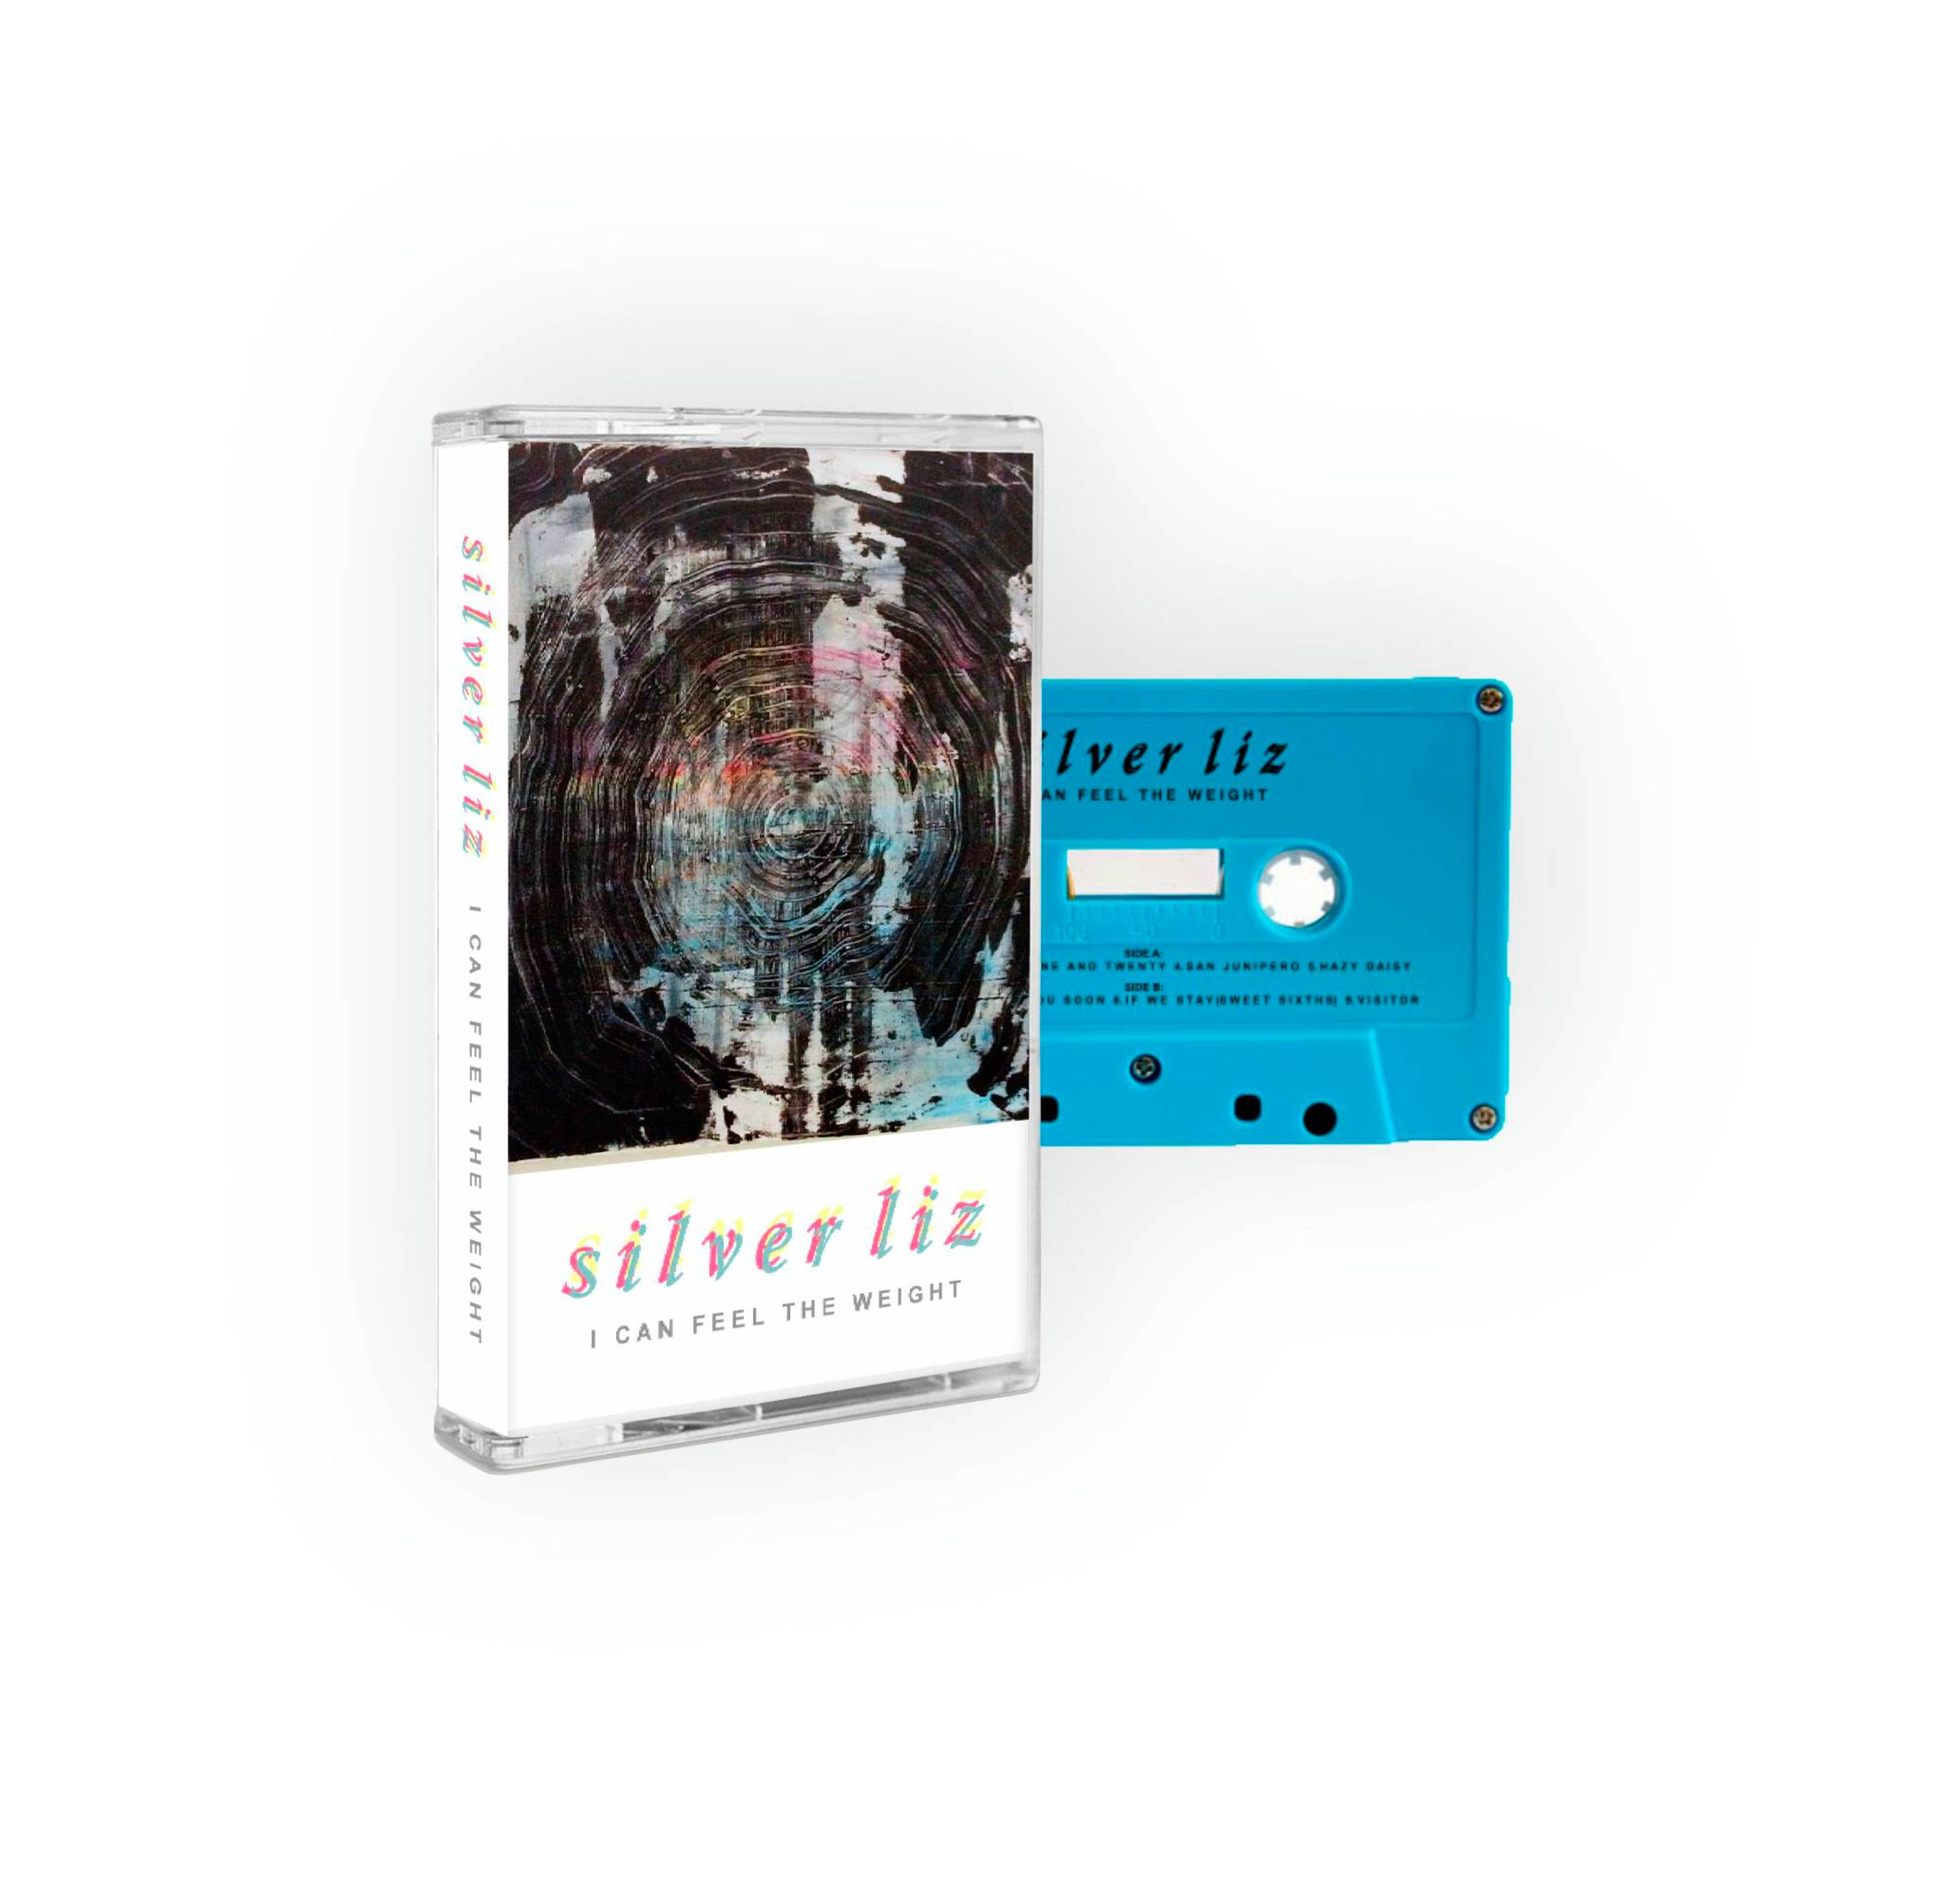
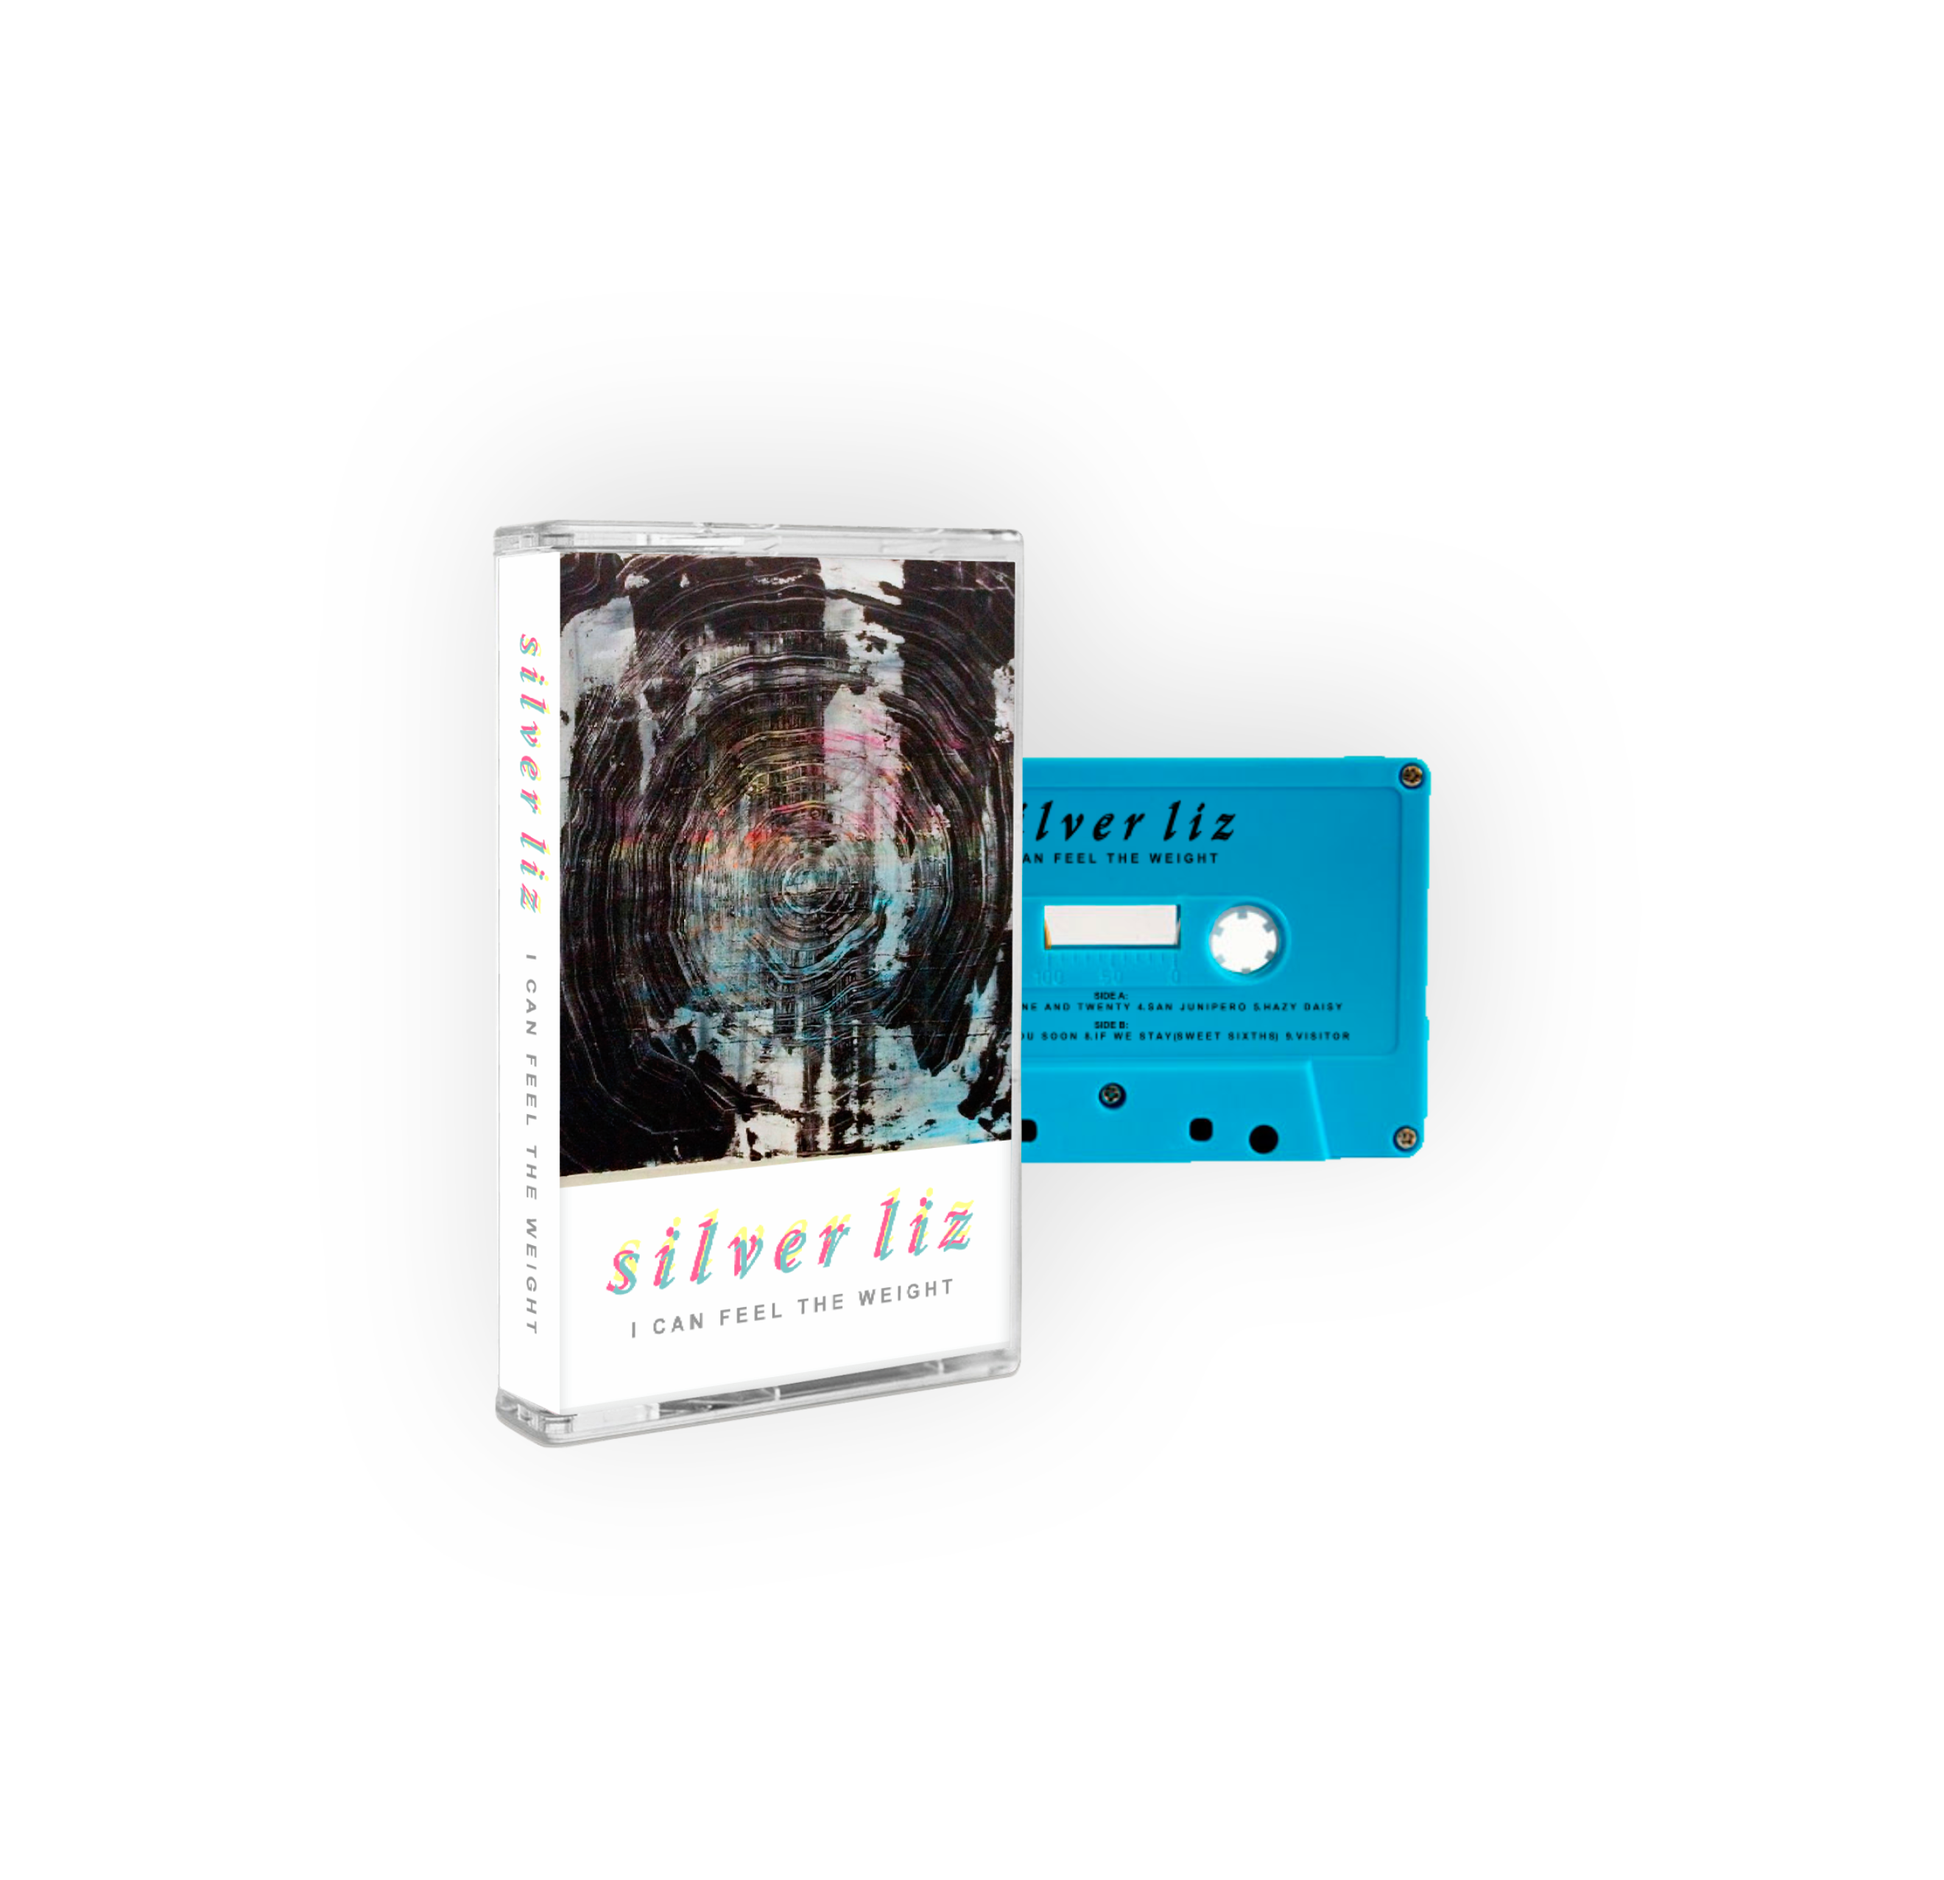
added all release data and updated some merch photos

Changed region(s): [[0.2174, 0.2166, 0.7765, 0.8045], [0.2174, 0.6808, 0.2485, 0.7117]]

diff --git a/client/src/components/Release.js b/client/src/components/Release.js
@@ -56,7 +56,7 @@ function Release() {
             title="Bandcamp Embed"
           >
             <a href={releaseData?.bandcamp_link}>
-              We Could Stay by M Wagner
+              {releaseTitle} by {artistName}
             </a>
           </iframe>
         </div>
@@ -68,6 +68,7 @@ function Release() {
           {releaseData?.artist}
         </h1>
         <h2 className="italic text-center text-2xl">{releaseData?.title}</h2>
+        <h3 className="text-center"> {releaseData?.format}</h3>
         <h3 className="text-center"> {releaseData?.catalog_number}</h3>
         <h3 className="text-center">{releaseData?.date}</h3>
 

diff --git a/client/src/components/Store.js b/client/src/components/Store.js
@@ -33,7 +33,7 @@ function Store() {
   return (
     <>
       <div className="relative w-full z-0 lg:w-4/5 m-2">
-        <div className="product-container grid grid-cols-1 lg:grid-cols-4 gap-4 mt-12">
+        <div className="product-container grid grid-cols-2 lg:grid-cols-4 gap-4 mt-12">
           {products.map((product, index) => (
             <div key={index} className="border p-4 rounded-lg shadow-md">
               <h1 className="artist text-lg font-bold">{product.artist}</h1>
